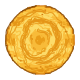
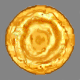
Add graphics for uranian system

diff --git a/planets.js b/planets.js
@@ -187,7 +187,7 @@ function init_planets() {
     create_moon(uranus, "Titania", 435910000, 3640, 3455000000000000000000, 10, 2, 1000, titania_color, 0)
 
     let oberon_color = [206, 220, 242]
-    create_moon(uranus, "Oberon", 583520000, 3150, 3110400000000000000000, 10, 2, oberon_color, 0)
+    create_moon(uranus, "Oberon", 583520000, 3150, 3110400000000000000000, 10, 2, 1000, oberon_color, 0)
 
     let umbriel_color = [168, 168, 168]
     create_moon(uranus, "Umbriel", 266000000, 4670, 1288500000000000000000, 10, 2, 1000, umbriel_color, 0)
